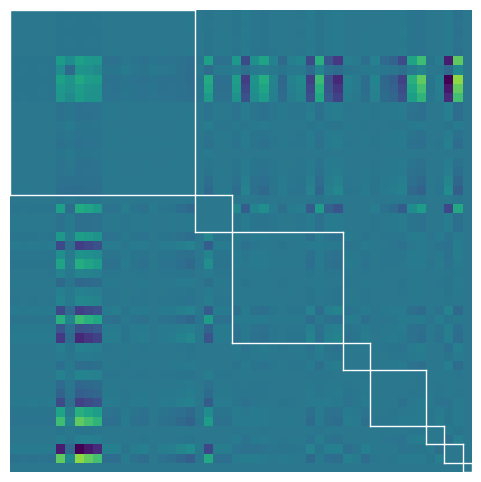
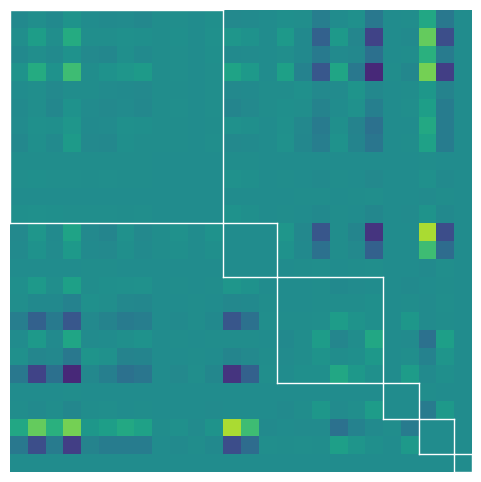
[REF] Resolve misunderstanding when analyzing the Gramian blocks

Changed region(s): [[0.0, 0.0, 0.9979, 0.9959], [0.2183, 0.2178, 0.2807, 0.2801]]

diff --git a/paper/sections/laplacian_feedforward_nn.tex b/paper/sections/laplacian_feedforward_nn.tex
@@ -539,18 +539,9 @@ Some insights while creating \Cref{fig:hbp-dependencies} that might explain the 
       \grad{\gradsquared{\vz^{(L-1)}}} \Delta u
       =
       \vzero
-      \shortintertext{and}
-      \mF^{(L)}_{\bullet, \gradsquared{\vz^{(L-1)}}u}
-    &=
-      \vzero
-      =
-      \mF^{(L)}_{\gradsquared{\vz^{(L-1)}}u, \bullet}
-      \qquad \forall \bullet\,.
   \end{align*}
-  We can see this effect clearly in the (forward, Hessian) and (Hessian, Hessian) panels of \Cref{fig:gramian-contribution-children} where any row/column associated to the last layer's weight is zero.
-  \toodoo{F.D.
-    Surprisingly, this does not seem to hold for the (gradient, Hessian) panel.
-    Could be numerical artifacts because overall the Gramian's elements are pretty small, or a bug in my code.}
+  and the associated block in $ \mF^{(L)}_{\bullet, \gradsquared{\vz^{(L-1)}}u}, \mF^{(L)}_{\gradsquared{\vz^{(L-1)}}u, \bullet} $ is zero.
+  We can see this effect clearly in the ($\bullet$, Hessian) and ($\bullet$, Hessian) panels of \Cref{fig:gramian-contribution-children} where either row or column blocks associated to the last layer's weight are zero.
 
   A similar argument implies that for a network consisting only of linear layers and ReLU activations, the Hessian backpropagation will be zero for all layers.
   Consequentially, the Laplacian will be $\vzero$.
@@ -559,14 +550,8 @@ Some insights while creating \Cref{fig:hbp-dependencies} that might explain the 
 \item So far we only discussed weights.
   Bias terms are even simpler because they only contribute in the forward pass, irrespective of which layer they reside in.
   They are not used in any operation of the backward and Hessian backward procedure.
-  We should see that in all panels except for (forward, forward) of \Cref{fig:gramian-contribution-children}.
-  \toodoo{However, currently only the (gradient, gradient), (gradient, Hessian), and (Hessian, Hessian) panels are consistent with this.
-    Need to debug why there is an expectation mismatch for (forward, gradient) and (forward, Hessian).}
+  Hence, in all panels except for (forward, forward) of \Cref{fig:gramian-contribution-children} the row/column blocks associated with bias terms are zero.
 \end{itemize}
-
-\toodoo{F.D.\,Write down the full expression for the Fisher, grouping the terms with identical and non-identical children.}
-
-\toodoo{Propose ways to Kronecker-approximate the terms from identical children in to a single Kronecker product.}
 
 \paragraph{Computing $\grad{\textcolor{blue}{\bullet}}\Delta u$}
 The terms $\grad{\textcolor{blue}{\bullet}}\Delta u$ are automatically computed when computing the gradient of the loss via backdrop.

diff --git a/paper/figures/gramian_per_child.tex b/paper/figures/gramian_per_child.tex
@@ -10,29 +10,35 @@
     &
       (forward, Hessian)
     \\
-    \includegraphics[width=0.33\linewidth]{../kfac_pinns_exp/exp04_gramian_contributions/fig/gram_output_output.png}
+    \includegraphics[width=0.22\linewidth]{../kfac_pinns_exp/exp04_gramian_contributions/fig/gram_output_output.png}
     &
-      \includegraphics[width=0.33\linewidth]{../kfac_pinns_exp/exp04_gramian_contributions/fig/gram_output_grad_input.png}
+      \includegraphics[width=0.22\linewidth]{../kfac_pinns_exp/exp04_gramian_contributions/fig/gram_output_grad_input.png}
     &
-      \includegraphics[width=0.33\linewidth]{../kfac_pinns_exp/exp04_gramian_contributions/fig/gram_output_hess_input.png}
+      \includegraphics[width=0.22\linewidth]{../kfac_pinns_exp/exp04_gramian_contributions/fig/gram_output_hess_input.png}
     \\
+    (gradient, forward)
     &
       (gradient, gradient)
     &
       (gradient, Hessian)
     \\
+    \includegraphics[width=0.22\linewidth]{../kfac_pinns_exp/exp04_gramian_contributions/fig/gram_grad_input_output.png}
     &
-      \includegraphics[width=0.33\linewidth]{../kfac_pinns_exp/exp04_gramian_contributions/fig/gram_grad_input_grad_input.png}
+      \includegraphics[width=0.22\linewidth]{../kfac_pinns_exp/exp04_gramian_contributions/fig/gram_grad_input_grad_input.png}
     &
-      \includegraphics[width=0.33\linewidth]{../kfac_pinns_exp/exp04_gramian_contributions/fig/gram_grad_input_hess_input.png}
+      \includegraphics[width=0.22\linewidth]{../kfac_pinns_exp/exp04_gramian_contributions/fig/gram_grad_input_hess_input.png}
     \\
+    (Hessian, forward)
     &
+      (Hessian, gradient)
     &
       (Hessian, Hessian)
     \\
+    \includegraphics[width=0.22\linewidth]{../kfac_pinns_exp/exp04_gramian_contributions/fig/gram_hess_input_output.png}
     &
+      \includegraphics[width=0.22\linewidth]{../kfac_pinns_exp/exp04_gramian_contributions/fig/gram_hess_input_grad_input.png}
     &
-      \includegraphics[width=0.33\linewidth]{../kfac_pinns_exp/exp04_gramian_contributions/fig/gram_hess_input_hess_input.png}
+      \includegraphics[width=0.22\linewidth]{../kfac_pinns_exp/exp04_gramian_contributions/fig/gram_hess_input_hess_input.png}
   \end{tabular}
   \caption{Contributions to the Gramian from different children in the
     computation graph.}\label{fig:gramian-contribution-children}

diff --git a/kfac_pinns_exp/exp04_gramian_contributions/demo_visualize_contributions.py b/kfac_pinns_exp/exp04_gramian_contributions/demo_visualize_contributions.py
@@ -56,10 +56,8 @@ def main():
     # setup
     manual_seed(0)
     batch_size = 10
-    X = rand(batch_size, 5)
+    X = rand(batch_size, 4)
     layers = [
-        Linear(5, 4),
-        Sigmoid(),
         Linear(4, 3),
         Sigmoid(),
         Linear(3, 2),
@@ -138,24 +136,15 @@ def main():
     plt.close(fig)
 
     # visualize the contributions
-    done = []
     for child1, child2 in contributions.keys():
-        if {child1, child2} in done:
-            continue
-
-        mat = contributions[(child1, child2)]
-        if child1 != child2:
-            mat = mat + contributions[(child2, child1)]
-
         fig, ax = plt.subplots(figsize=(6, 6))
         ax.axis("off")  # turn off ticks and tick labels
-        im = ax.imshow(mat, vmin=vmin, vmax=vmax)
+        im = ax.imshow(contributions[(child1, child2)], vmin=vmin, vmax=vmax)
         highlight_block_diagonal(ax, dims)
         plt.savefig(
             path.join(FIGDIR, f"gram_{child1}_{child2}.png"), bbox_inches="tight"
         )
         plt.close(fig)
-        done.append({child1, child2})
 
     # visualize the sum of terms from identical children
     diag_children = sum(contributions[(c, c)] for c in CHILDREN)

diff --git a/paper/figures/gramian_sum_children.tex b/paper/figures/gramian_sum_children.tex
@@ -3,19 +3,19 @@
   Full Gramian\\
   \includegraphics[width=0.43\linewidth]{../kfac_pinns_exp/exp04_gramian_contributions/fig/gram_full.png}
 
-  \begin{minipage}[t]{0.325\linewidth}
+  \begin{minipage}[t]{0.22\linewidth}
     \centering
     Block diagonal
     \includegraphics[width=\linewidth]{../kfac_pinns_exp/exp04_gramian_contributions/fig/gram_block_diag.png}
   \end{minipage}
   \hfill
-  \begin{minipage}[t]{0.325\linewidth}
+  \begin{minipage}[t]{0.22\linewidth}
     \centering
     Summed children diagonal
     \includegraphics[width=\linewidth]{../kfac_pinns_exp/exp04_gramian_contributions/fig/gram_diag_children.png}
   \end{minipage}
   \hfill
-  \begin{minipage}[t]{0.325\linewidth}
+  \begin{minipage}[t]{0.22\linewidth}
     \centering
     Summed children off-diagonal
     \includegraphics[width=\linewidth]{../kfac_pinns_exp/exp04_gramian_contributions/fig/gram_offdiag_children.png}

diff --git a/paper/main.tex b/paper/main.tex
@@ -97,6 +97,8 @@ This subsection describes the Jacobians of the operations with the weight matrix
 a linear layer during the computation of the Laplacian and ends by providing an
 equation for the Gramian block.
 
+\toodoo{Propose ways to Kronecker-approximate the terms from identical children in to a single Kronecker product.}
+
 \subsection{Kroneckerfactored Approximate Gramian (KFAG)}
 
 This subsection describes the Kronecker approximation we propose for the per-layer Gramian.
@@ -147,7 +149,7 @@ Ideas:
 \end{itemize}
 
 \begin{ack} % automatically suppressed in anonymized submission
-  Acknowledgments go here.
+  The authors thank Runa Eschenhagen for insightful discussions on the relation to KFAC for weight sharing layers.
 \end{ack}
 
 \bibliography{references}
